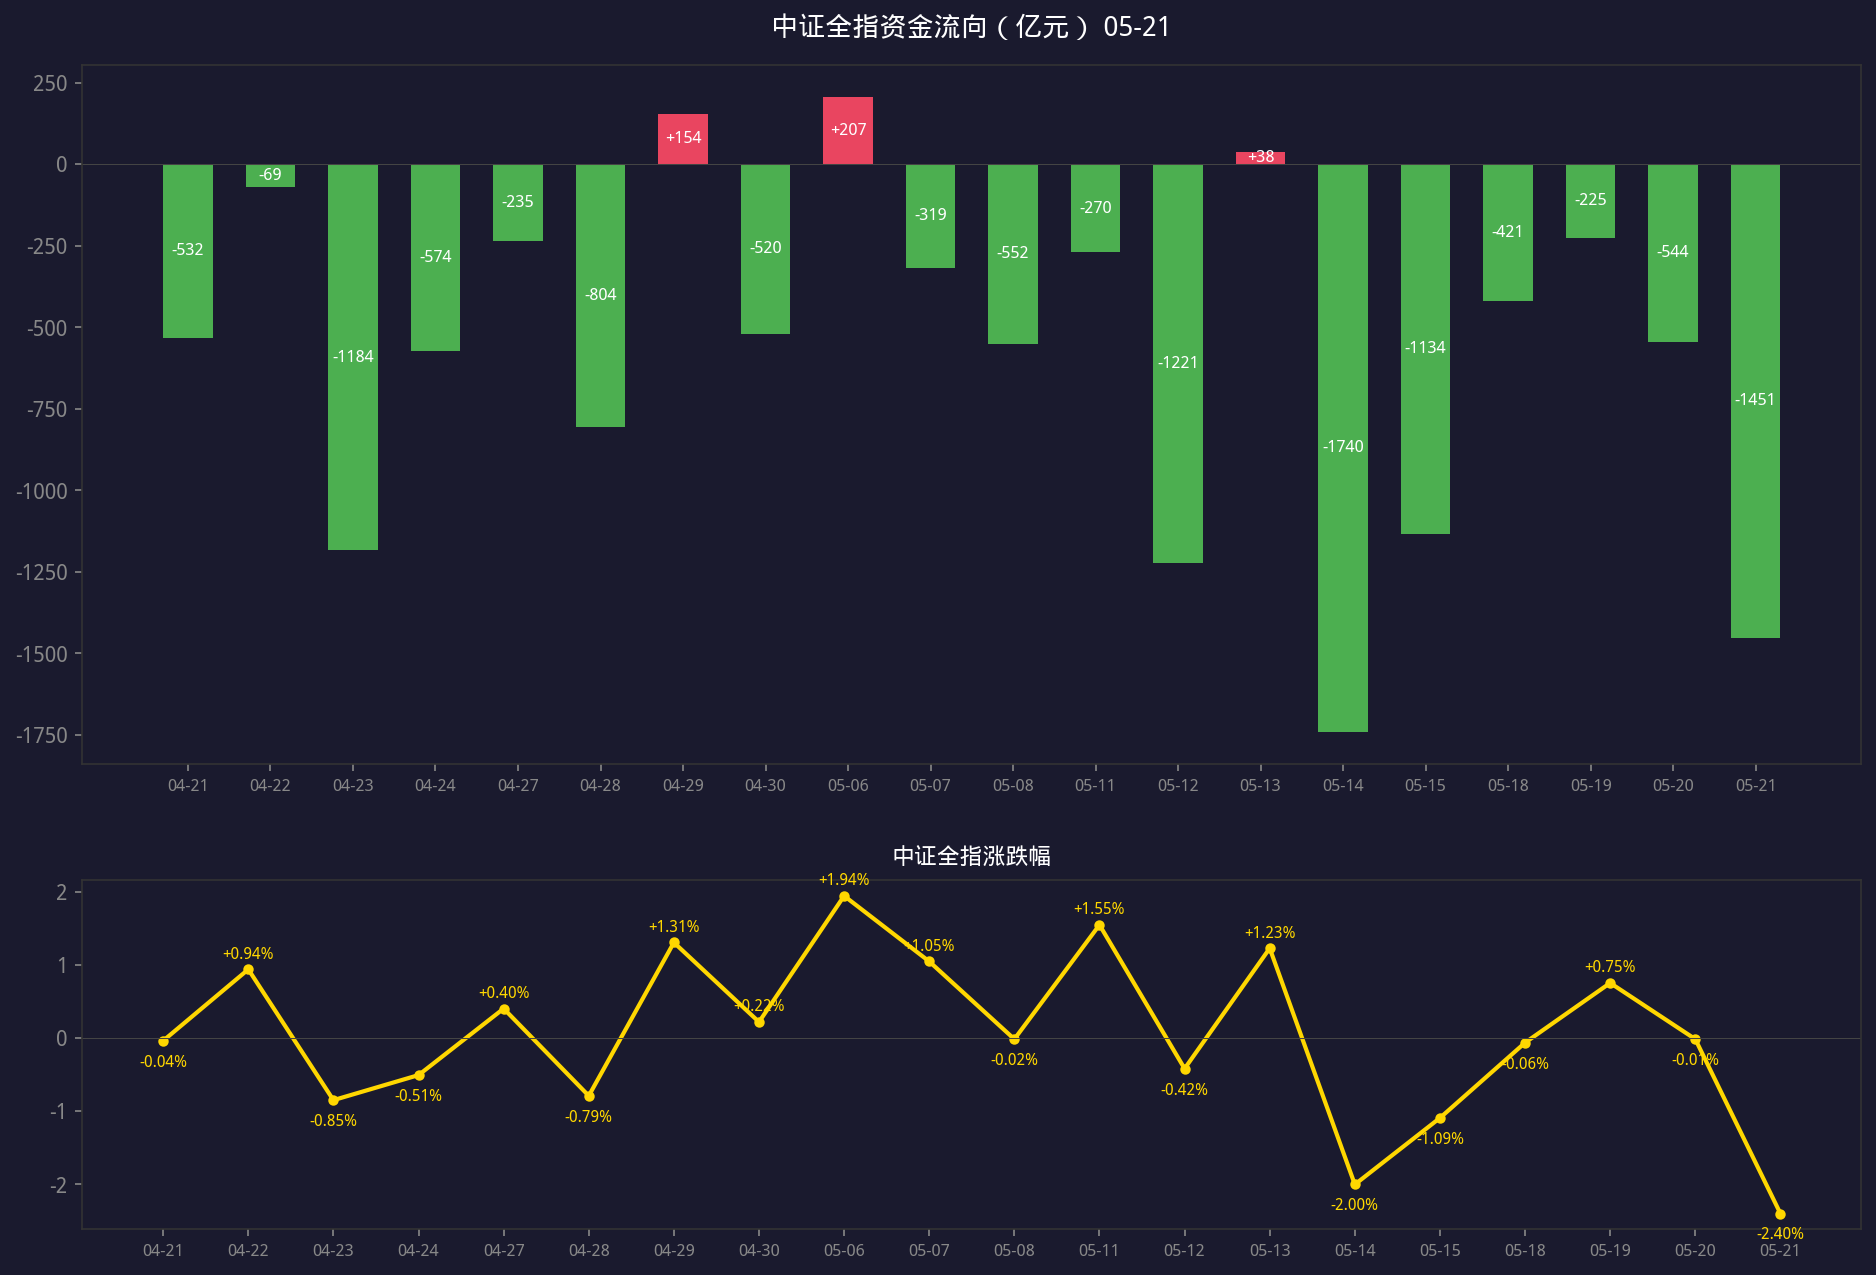
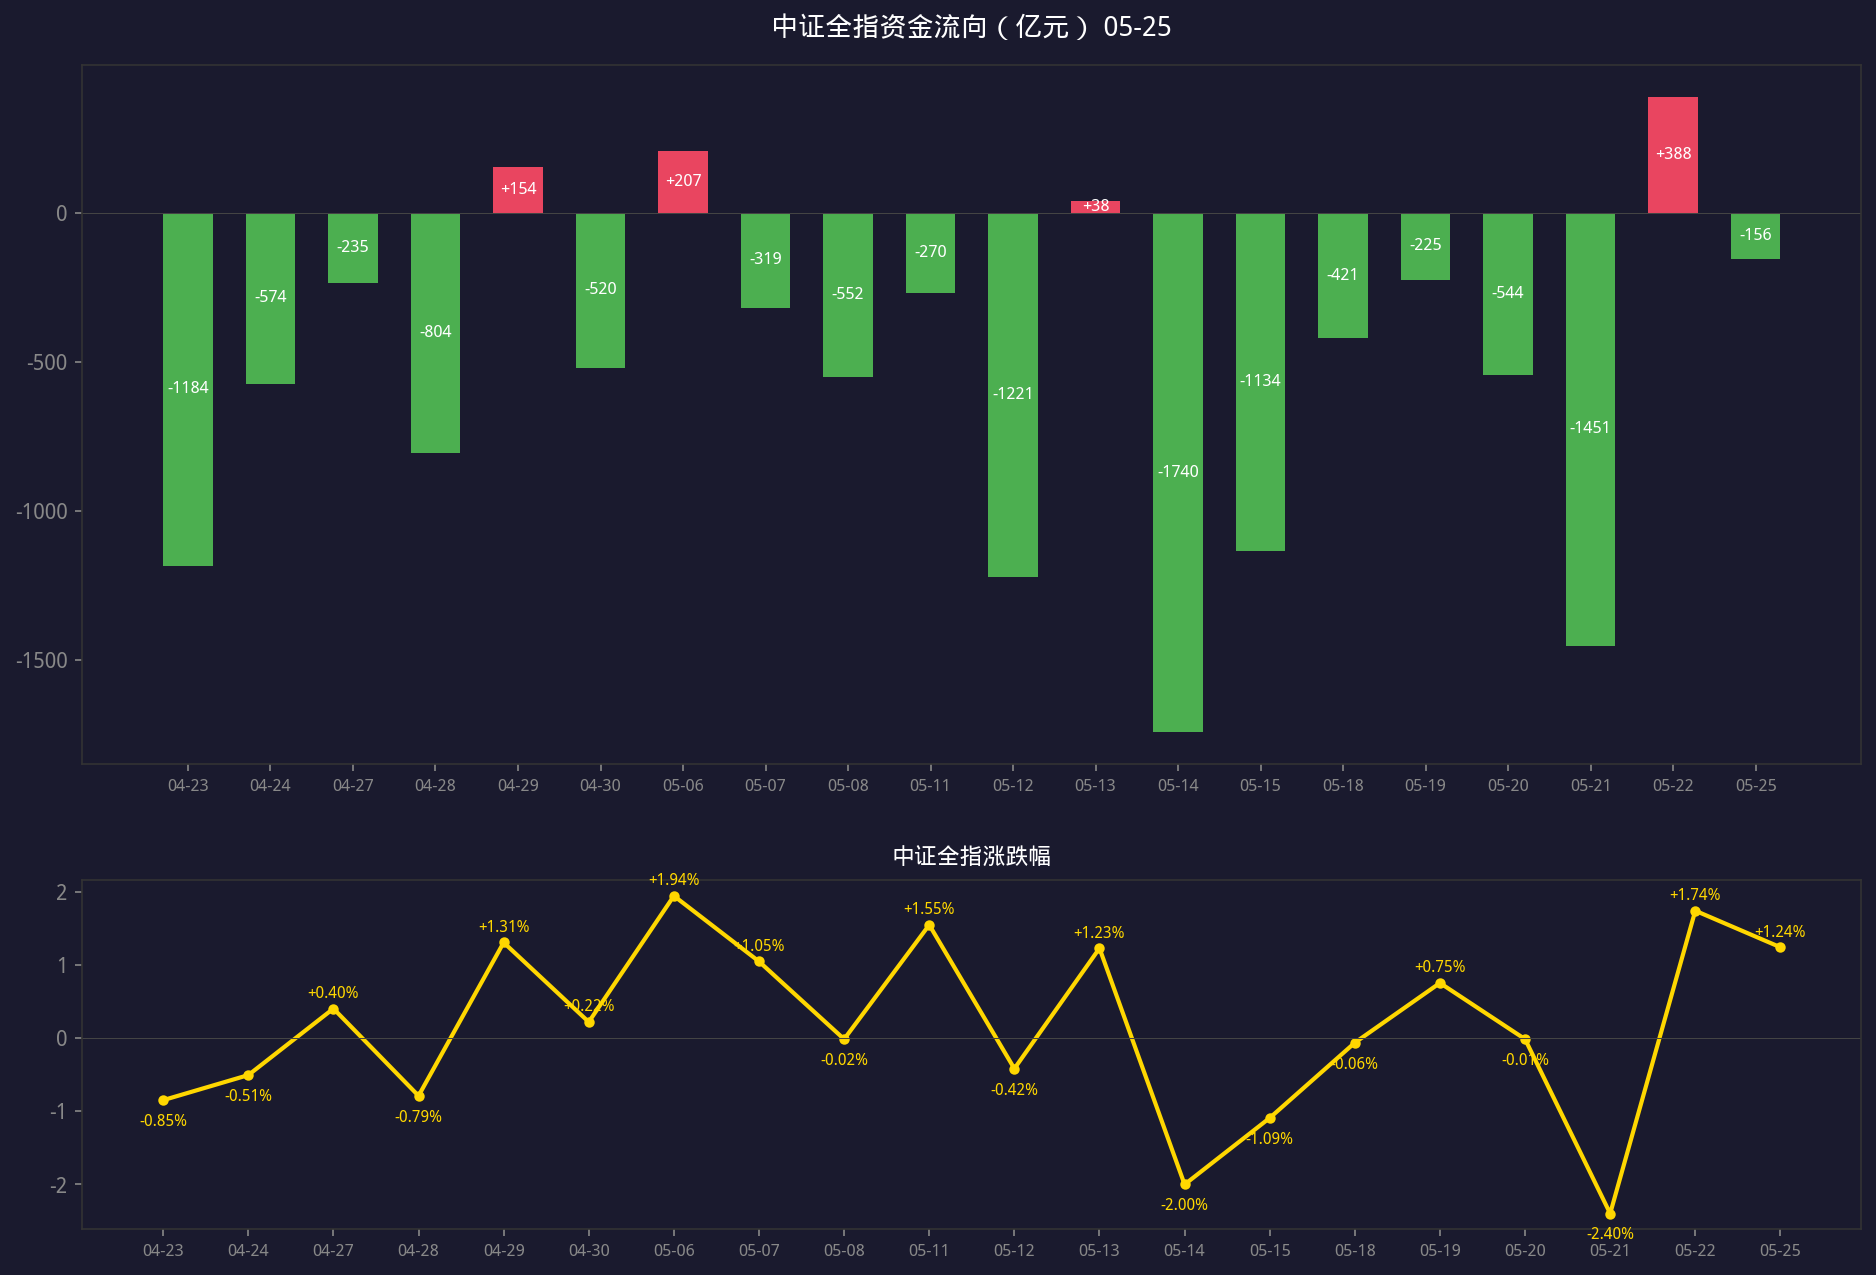
fix: review_analysis price/change 从 get_stock_card 取而非扫描缓存
generate_holdings_review 和 generate_buy_signals_review 两个函数
的 price/change 之前用了 h.get('close') / s.get('price') 等扫描
缓存数据，导致华工科技涨停日显示156.31/1.53%而不是171.94/10.0%。
改为从 get_stock_card() 取 card_price/card_change。

diff --git a/backend/core/review_analysis.py b/backend/core/review_analysis.py
@@ -143,6 +143,8 @@ def generate_holdings_review(holdings, stocks, buy_signals,
                 direction=d.get('direction', ''),
                 klines=kls_for_card,
             )
+            card_price = card['price']
+            card_change = card['change']
             trading_system = card['trading_system']
             trading_reason = card['trading_reason']
             trend_buy_type = card.get('trend_buy_type', '')
@@ -152,6 +154,8 @@ def generate_holdings_review(holdings, stocks, buy_signals,
             sl = card['stop_loss']
             sl_pct = card['stop_loss_pct']
         except Exception:
+            card_price = h.get('close', 0)
+            card_change = h.get('change', 0)
             trading_system = '3l'
             trading_reason = '判定失败'
             trend_buy_type = ''
@@ -168,8 +172,8 @@ def generate_holdings_review(holdings, stocks, buy_signals,
             'direction': d.get('direction', ''),
             'structure': structure,
             'stage': stage,
-            'price': h.get('close', 0),
-            'change': h.get('change', 0),
+            'price': card_price,
+            'change': card_change,
             'ema': h.get('ema', '--'),
             'vol_analysis': h.get('vol_analysis', '--'),
             'signal': code_sig,
@@ -249,6 +253,8 @@ def generate_buy_signals_review(buy_signals, stocks, stock_cache,
                 direction=s.get("sector", ""),
                 klines=kls_for_card,
             )
+            card_price = card["price"]
+            card_change = card["change"]
             trading_system = card["trading_system"]
             trading_reason = card["trading_reason"]
             trend_buy_type = card.get("trend_buy_type", "")
@@ -258,6 +264,8 @@ def generate_buy_signals_review(buy_signals, stocks, stock_cache,
             sl = card["stop_loss"]
             sl_pct = card["stop_loss_pct"]
         except Exception:
+            card_price = s.get("price", 0)
+            card_change = s.get("change", 0)
             trading_system = "3l"
             trading_reason = "判定失败"
             trend_buy_type = ""
@@ -276,8 +284,8 @@ def generate_buy_signals_review(buy_signals, stocks, stock_cache,
             "sector": real_sector or direction,
             "direction": direction,
             "buy_point": buy_point_display,
-            "price": s.get("price", 0),
-            "change": s.get("change", 0),
+            "price": card_price,
+            "change": card_change,
             "score": s.get("score", 0),
             "profit_model1": s.get("profit_model1", False),
             "trend_stock": s.get("trend_stock", False),